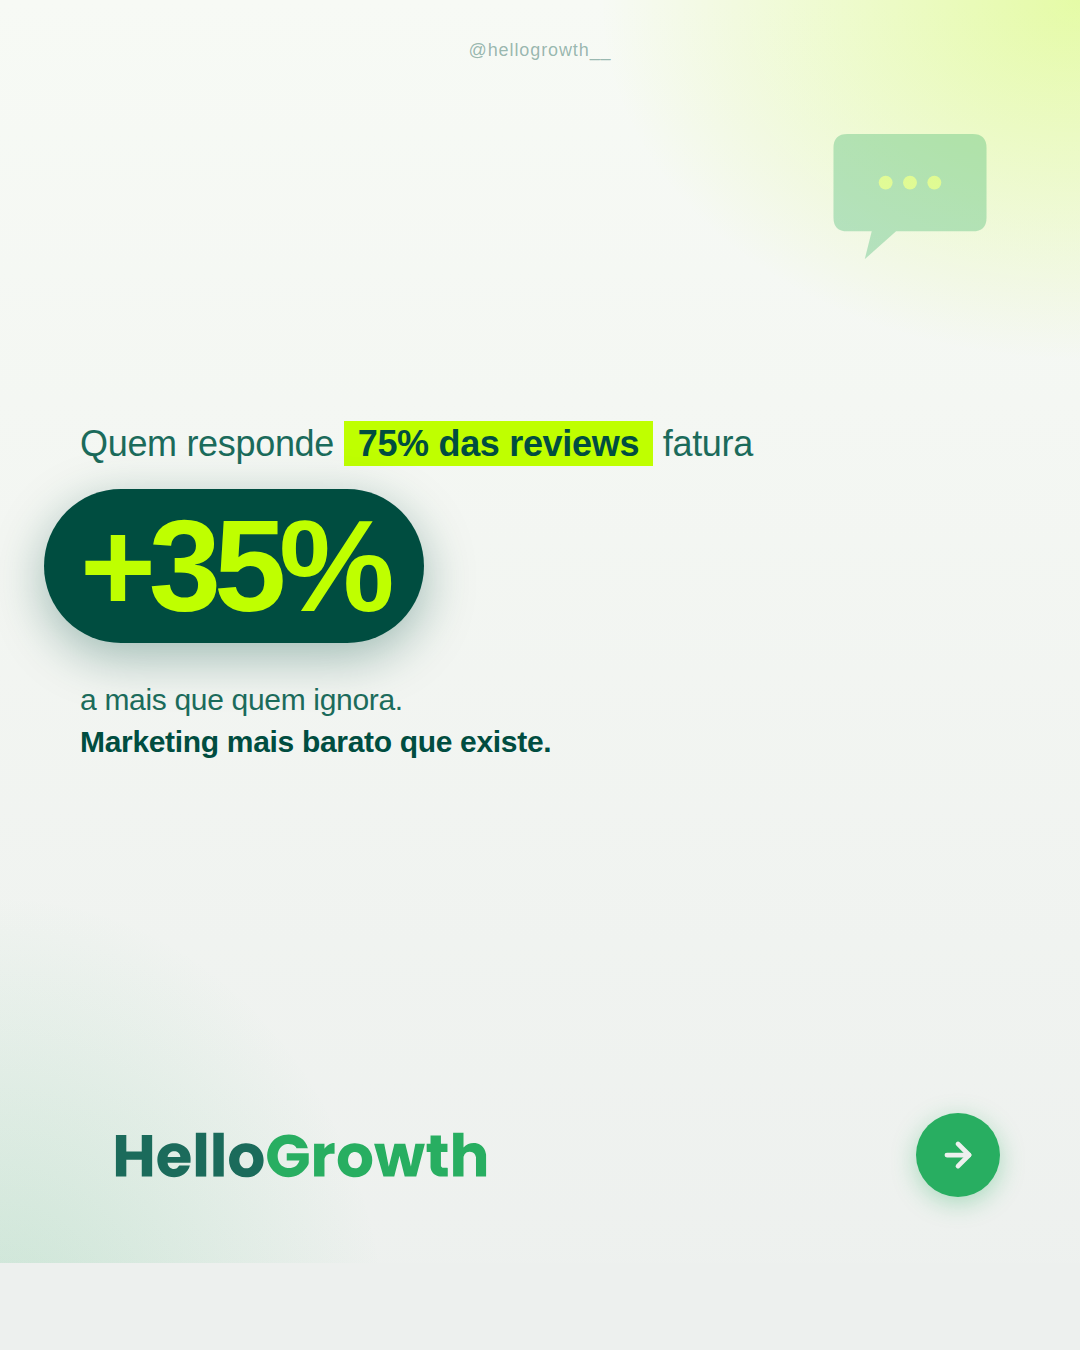
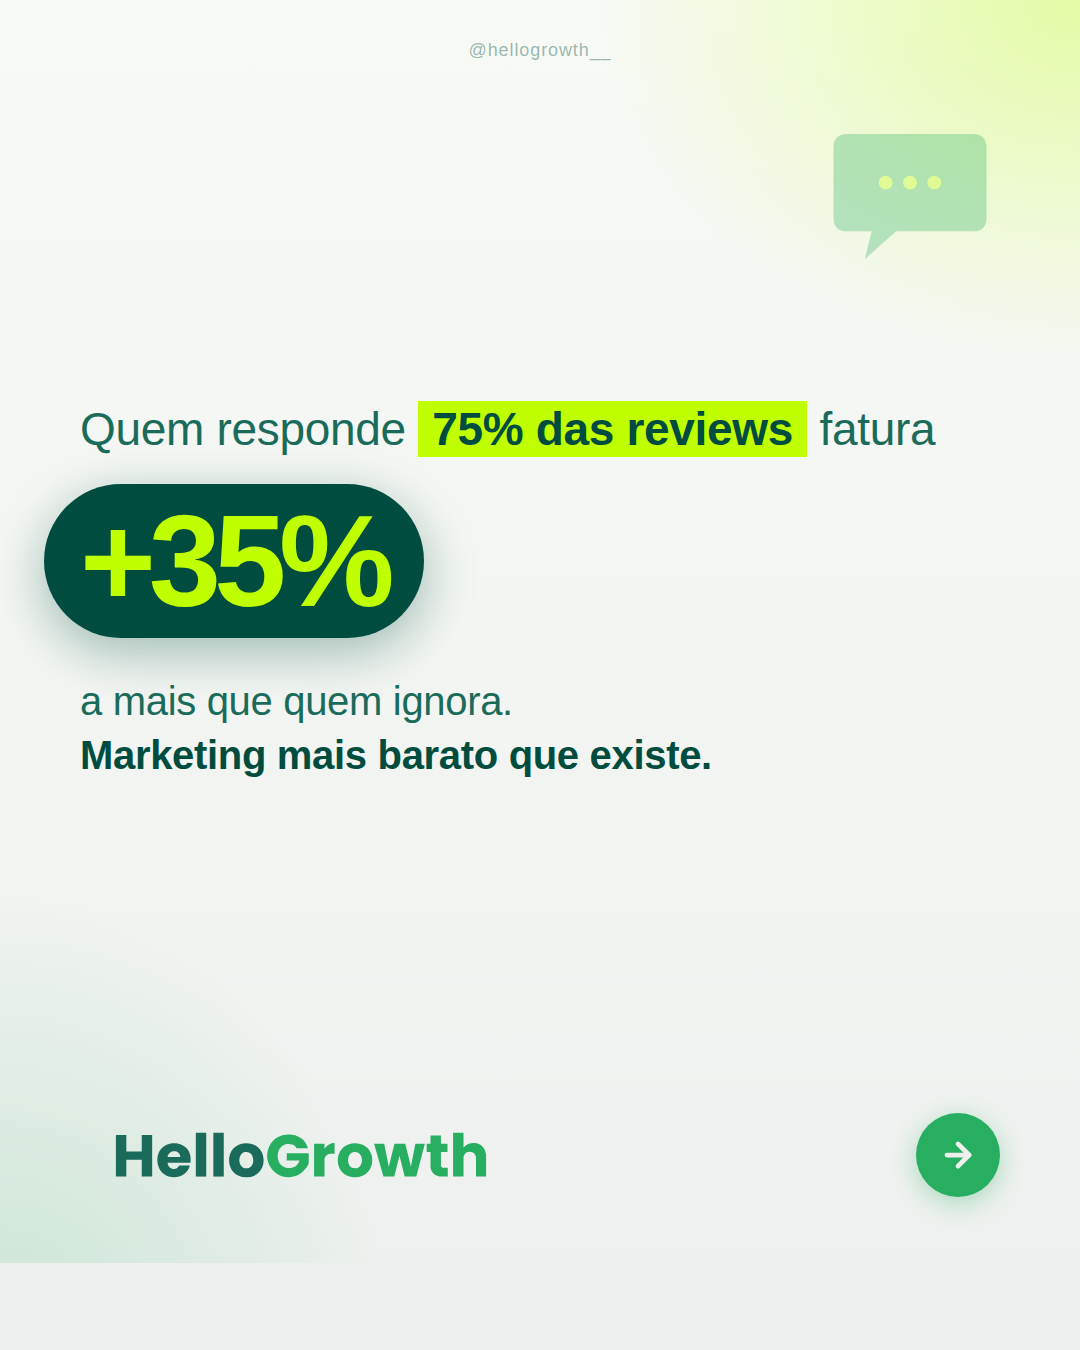
V11: enlarge card 4 typography
Pre-headline 36→46px and sub copy 30→40px on the +35% slide so the
supporting text matches the visual weight of the other cards.

https://claude.ai/code/session_01RXRUyw64HWp6pgoosUTsE4

Changed region(s): [[0.0611, 0.28, 0.8861, 0.5911], [0.3667, 0.3733, 0.3972, 0.4044]]

diff --git a/squads/social-content/output/2026-06-03-195535/slides-brand/slide-04.html b/squads/social-content/output/2026-06-03-195535/slides-brand/slide-04.html
@@ -38,9 +38,9 @@ html, body {
 .chat-bubble svg { width: 100%; height: auto; display: block; }
 
 .pre-headline {
-  font-size: 36px; font-weight: 500;
-  color: #1b6b5b; line-height: 1.35;
-  margin-top: 320px; margin-bottom: 20px;
+  font-size: 46px; font-weight: 500;
+  color: #1b6b5b; line-height: 1.3;
+  margin-top: 300px; margin-bottom: 24px;
 }
 .pre-headline .accent {
   background: #bfff00;
@@ -58,9 +58,9 @@ html, body {
   margin-left: -36px;
 }
 .sub {
-  font-size: 30px; font-weight: 500;
-  color: #1b6b5b; line-height: 1.4;
-  max-width: 850px;
+  font-size: 40px; font-weight: 500;
+  color: #1b6b5b; line-height: 1.35;
+  max-width: 900px;
 }
 .sub strong { color: #004d40; font-weight: 800; }
 
